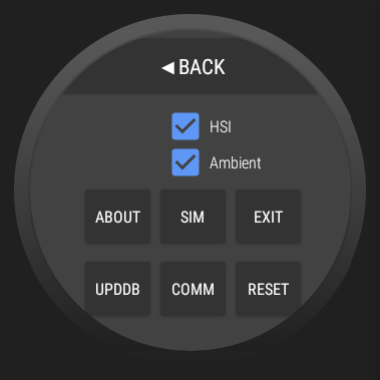
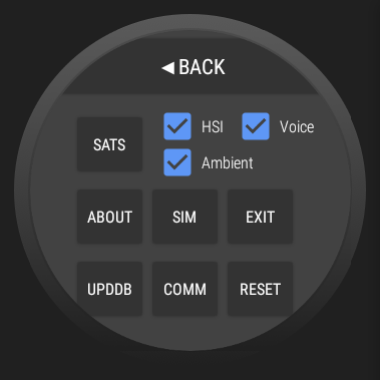
version 1.1
add voice input for waypoint input

diff --git a/icons/help.html b/icons/help.html
@@ -169,6 +169,7 @@
                         <LI><B>ABOUT</B> - display version and database expiration information
                         <LI><B>UPDDB</B> - download database update (requires Internet access)
                         <LI><B>HSI</B> - select HSI mode for nav dial (airplane always at top); else OBS with yellow triangle always at top
+                        <LI><B>Voice</B> - enable voice recognition for waypoint input on main page
                         <LI><B>Ambient</B> - slow to 20 seconds per GPS sample in ambient mode; else maintain 1 second per sample
                         <LI><B>SIM</B> - access simulator parameters
                         <LI><B>COMM</B> - access bluetooth and UDP parameters
@@ -178,6 +179,45 @@
                 </TD>
             </TR>
         </TABLE>
+        <H3> Voice Recognition </H3>
+        <P>Voice can be used to input waypoints on the main page.  It must be enabled by checking the <B>Voice</B>
+            checkbox on the menu page.  It recognizes the usual aviation prowords (alpha, bravo, etc) and the
+            decimal digits (see table below).</P>
+        <P>NOTE:  Some watches may not have voice input capability.</P>
+        <P>NOTE:  This feature may require internet access to function.  Usually displays a message indicating unable
+            to connect to Google or something similar.  Swipe the voice input panel away then uncheck the <B>Voice</B>
+            checkbox then use keyboard input instead.</P>
+        <OL>
+            <LI>make sure the <B>Voice</B> checkbox on menu page is checked
+            <LI>tap on the waypoint id entry box on main page, speeh entry page should show
+            <LI>tap microphone icon on speech page
+            <LI>say prowords for the desired waypoint
+                <UL>
+                    <LI>do not pause between words, it will think you have finished
+                    <LI>say "bravo victor yankee", not "bee vee wye" or "beverly"
+                    <LI>say "one bravo two", not "one bee two" or "katama"
+                    <LI>say "kilo mike hotel tango" (for the airport), not "k m h t" or "manchester nowhere near the sea"
+                    <LI>say "mike hotel tango" for the VOR
+                    <LI>say "bravo one niner", not "bee nineteen" or "biddefid"
+                </UL>
+            <LI>click checkmark icon
+        </OL>
+        <P>List of recognized prowords (other words are ignored):</P>
+        <UL><LI>
+            <TABLE>
+                <TR><TH>0</TH><TD>zero</TD><TH>A</TH><TD>alpha</TD><TH>K</TH><TD>kilo</TD><TH>U</TH><TD>uniform</TD></TR>
+                <TR><TH>1</TH><TD>one won</TD><TH>B</TH><TD>bravo</TD><TH>L</TH><TD>lima</TD><TH>V</TH><TD>victor</TD></TR>
+                <TR><TH>2</TH><TD>to too two</TD><TH>C</TH><TD>charlie</TD><TH>M</TH><TD>mike</TD><TH>W</TH><TD>whiskey</TD></TR>
+                <TR><TH>3</TH><TD>three tree</TD><TH>D</TH><TD>delta</TD><TH>N</TH><TD>november</TD><TH>X</TH><TD>x-ray xray</TD></TR>
+                <TR><TH>4</TH><TD>for four</TD><TH>E</TH><TD>echo</TD><TH>O</TH><TD>oscar</TD><TH>Y</TH><TD>yankee</TD></TR>
+                <TR><TH>5</TH><TD>fife five</TD><TH>F</TH><TD>fox foxtrot</TD><TH>P</TH><TD>papa</TD><TH>Z</TH><TD>zulu</TD></TR>
+                <TR><TH>6</TH><TD>six</TD><TH>G</TH><TD>golf</TD><TH>Q</TH><TD>quebec</TD></TR>
+                <TR><TH>7</TH><TD>seven</TD><TH>H</TH><TD>hotel</TD><TH>R</TH><TD>romeo</TD></TR>
+                <TR><TH>8</TH><TD>ate eight</TD><TH>I</TH><TD>india</TD><TH>S</TH><TD>ciara sierra</TD></TR>
+                <TR><TH>9</TH><TD>nine niner</TD><TH>J</TH><TD>juliet</TD><TH>T</TH><TD>tango</TD></TR>
+            </TABLE>
+            <LI><B>off</B> clear waypoint and turn GPS off
+        </UL>
         <H3> Simulator </H3>
         <P>Generates GPS positions for a given track to use for testing.  Blocks real GPS reception while active.</P>
         <H3> COMM </H3>

diff --git a/app/src/main/java/com/outerworldapps/hsiwatch/MainActivity.java b/app/src/main/java/com/outerworldapps/hsiwatch/MainActivity.java
@@ -21,20 +21,27 @@
 package com.outerworldapps.hsiwatch;
 
 import android.annotation.SuppressLint;
+import android.content.ActivityNotFoundException;
+import android.content.Intent;
 import android.content.SharedPreferences;
 import android.database.sqlite.SQLiteDatabase;
 import android.hardware.GeomagneticField;
 import android.os.Bundle;
 import android.os.Handler;
+import android.speech.RecognizerIntent;
 import android.support.wearable.activity.WearableActivity;
 import android.util.DisplayMetrics;
 import android.util.Log;
 import android.view.LayoutInflater;
+import android.view.MotionEvent;
 import android.view.View;
 import android.widget.Button;
 import android.widget.Toast;
 
+import java.util.HashMap;
 import java.util.LinkedList;
+import java.util.List;
+import java.util.Locale;
 import java.util.Stack;
 
 import androidx.annotation.NonNull;
@@ -274,6 +281,7 @@ public class MainActivity extends WearableActivity {
     /**
      * Finish initializing everything.
      */
+    @SuppressLint("ClickableViewAccessibility")
     public void finishInitializing ()
     {
         // the OBS dial and needles
@@ -354,6 +362,21 @@ public class MainActivity extends WearableActivity {
                 return downloadThread.getSqlDB ();
             }
         };
+        identEntry.setOnTouchListener (new View.OnTouchListener () {
+            @Override
+            public boolean onTouch (View v, MotionEvent event)
+            {
+                // if database not downloaded, don't bother opening keyboard
+                if (identEntry.onTouch (v, event)) return true;
+
+                // if voice not enabled, open keyboard
+                if (! menuMainPage.voiceEnCkBox.isChecked ()) return false;
+
+                // if voice input activity successfully started, don't open keyboard
+                // if voice input activity failed to start, open keyboard
+                return displaySpeechRecognizer ();
+            }
+        });
 
         // maybe load up waypoint from preferences
         String navWayptId = prefs.getString ("navWayptId", "");
@@ -545,6 +568,144 @@ public class MainActivity extends WearableActivity {
     }
 
     /**
+     * Voice recognition
+     */
+    private final static int SPEECH_REQUEST_CODE = 0;
+
+    private final static HashMap<String,Character> letters = createLetters ();
+    private static HashMap<String,Character> createLetters ()
+    {
+        HashMap<String,Character> hm = new HashMap<> ();
+        hm.put ("0", '0');
+        hm.put ("1", '1');
+        hm.put ("2", '2');
+        hm.put ("3", '3');
+        hm.put ("4", '4');
+        hm.put ("5", '5');
+        hm.put ("6", '6');
+        hm.put ("7", '7');
+        hm.put ("8", '8');
+        hm.put ("9", '9');
+        hm.put ("alpha", 'A');
+        hm.put ("ate", '8');
+        hm.put ("bravo", 'B');
+        hm.put ("charlie", 'C');
+        hm.put ("ciara", 'S');
+        hm.put ("delta", 'D');
+        hm.put ("echo", 'E');
+        hm.put ("eight", '8');
+        hm.put ("fife", '5');
+        hm.put ("five", '5');
+        hm.put ("for", '4');
+        hm.put ("four", '4');
+        hm.put ("fox", 'F');
+        hm.put ("foxtrot", 'F');
+        hm.put ("golf", 'G');
+        hm.put ("hotel", 'H');
+        hm.put ("india", 'I');
+        hm.put ("juliet", 'J');
+        hm.put ("kilo", 'K');
+        hm.put ("lima", 'L');
+        hm.put ("mike", 'M');
+        hm.put ("nine", '9');
+        hm.put ("niner", '9');
+        hm.put ("november", 'N');
+        hm.put ("off", '@');
+        hm.put ("one", '1');
+        hm.put ("oscar", 'O');
+        hm.put ("papa", 'P');
+        hm.put ("quebec", 'Q');
+        hm.put ("romeo", 'R');
+        hm.put ("seven", '7');
+        hm.put ("sierra", 'S');
+        hm.put ("six", '6');
+        hm.put ("tango", 'T');
+        hm.put ("three", '3');
+        hm.put ("tree", '3');
+        hm.put ("to", '2');
+        hm.put ("too", '2');
+        hm.put ("two", '2');
+        hm.put ("uniform", 'U');
+        hm.put ("victor", 'V');
+        hm.put ("whiskey", 'W');
+        hm.put ("won", '1');
+        hm.put ("x-ray", 'X');
+        hm.put ("xray", 'X');
+        hm.put ("yankee", 'Y');
+        hm.put ("zero", '0');
+        hm.put ("zulu", 'Z');
+        return hm;
+    }
+
+    // https://developer.android.com/training/wearables/apps/voice#java
+    private boolean displaySpeechRecognizer ()
+    {
+        Intent intent = new Intent (RecognizerIntent.ACTION_RECOGNIZE_SPEECH);
+        intent.putExtra (RecognizerIntent.EXTRA_LANGUAGE_MODEL, RecognizerIntent.LANGUAGE_MODEL_FREE_FORM);
+        //intent.putExtra (RecognizerIntent.EXTRA_PREFER_OFFLINE, true);
+
+        try {
+            startActivityForResult (intent, SPEECH_REQUEST_CODE);
+        } catch (ActivityNotFoundException anfe) {
+            Log.w (TAG, "error starting ACTION_RECOGNIZE_SPEECH", anfe);
+            showToast ("device does not support voice input");
+            return false;
+        }
+        return true;
+    }
+
+    @Override
+    protected void onActivityResult (int requestCode, int resultCode, Intent data)
+    {
+        Log.d (TAG, "speech requestCode=" + requestCode + " resultCode=" + resultCode);
+
+        if ((requestCode == SPEECH_REQUEST_CODE) && (resultCode == RESULT_OK)) {
+
+            // translate prowords into string of letters and numbers for waypoint ident
+            StringBuilder sb = new StringBuilder ();
+            List<String> results = data.getStringArrayListExtra (RecognizerIntent.EXTRA_RESULTS);
+            boolean turnedOff = false;
+            for (String result : results) {
+                Log.d (TAG, "speech result='" + result + "'");
+                for (String word : result.replace ("/", " ").split (" ")) {
+                    Character ch = letters.get (word.toLowerCase (Locale.US));
+                    if (ch != null) {
+                        //noinspection SwitchStatementWithTooFewBranches
+                        switch (ch) {
+                            case '@': {
+                                turnedOff = true;
+                                break;
+                            }
+                            default: {
+                                sb.append (ch);
+                                break;
+                            }
+                        }
+                    }
+                }
+            }
+
+            // if turned off, clear input box and set waypoint to null
+            if (turnedOff) {
+                identEntry.setText ("");
+                identEntry.wcl.wayptChanged (null);
+            } else if (sb.length () > 0) {
+
+                // pretend like those letters and numbers were typed in waypoint ident box
+                identEntry.setText (sb);
+                if (identEntry.onEnterKey (identEntry)) {
+
+                    // failed to look it up in database, restore text box and re-open speech input
+                    identEntry.setText ((navWaypt == null) ? "" : navWaypt.ident);
+                    displaySpeechRecognizer ();
+                }
+            }
+        }
+
+        super.onActivityResult (requestCode, resultCode, data);
+    }
+
+    /**
      * Display toast message.
      */
     public void showToast (String msg)
@@ -606,15 +767,4 @@ public class MainActivity extends WearableActivity {
             }
         }
     }
-
-    // https://stackoverflow.com/questions/4605527/converting-pixels-to-dp
-    /*
-    public int dpToPixels (final float dps)
-    {
-        DisplayMetrics metrics = new DisplayMetrics ();
-        getWindowManager ().getDefaultDisplay ().getMetrics (metrics);
-        final float scale = metrics.density;
-        return Math.round (dps * scale);
-    }
-    */
 }

diff --git a/app/src/main/java/com/outerworldapps/hsiwatch/MenuMainPage.java b/app/src/main/java/com/outerworldapps/hsiwatch/MenuMainPage.java
@@ -40,6 +40,7 @@ public class MenuMainPage {
     public  Button upddbButton;
     public  CheckBox ambEnabCkBox;
     public  CheckBox hsiModeCkBox;
+    public  CheckBox voiceEnCkBox;
     private CommMainPage commMainPage;
     private int numResetClicks;
     private long lastExitClick;
@@ -137,6 +138,20 @@ public class MenuMainPage {
                 SharedPreferences prefs = mainActivity.getPreferences (Context.MODE_PRIVATE);
                 SharedPreferences.Editor editr = prefs.edit ();
                 editr.putBoolean ("hsiMode", checked);
+                editr.apply ();
+            }
+        });
+
+        voiceEnCkBox = menuPageView.findViewById (R.id.voiceEnCkbox);
+        voiceEnCkBox.setChecked (prefs.getBoolean ("voiceEnable", false));
+        voiceEnCkBox.setOnClickListener (new View.OnClickListener () {
+            @Override
+            public void onClick (View v)
+            {
+                boolean checked = voiceEnCkBox.isChecked ();
+                SharedPreferences prefs = mainActivity.getPreferences (Context.MODE_PRIVATE);
+                SharedPreferences.Editor editr = prefs.edit ();
+                editr.putBoolean ("voiceEnable", checked);
                 editr.apply ();
             }
         });

diff --git a/app/src/main/java/com/outerworldapps/hsiwatch/WayptEditText.java b/app/src/main/java/com/outerworldapps/hsiwatch/WayptEditText.java
@@ -80,7 +80,7 @@ public class WayptEditText extends MyEditText implements MyEditText.Listener, Vi
     @Override  // Listener
     public boolean onEnterKey (TextView v)
     {
-        String idstr = v.getText ().toString ().trim ().toUpperCase (Locale.US);
+        String idstr = v.getText ().toString ().replace (" ", "").toUpperCase (Locale.US);
         if (! idstr.equals ("")) {
 
             // access latest database
